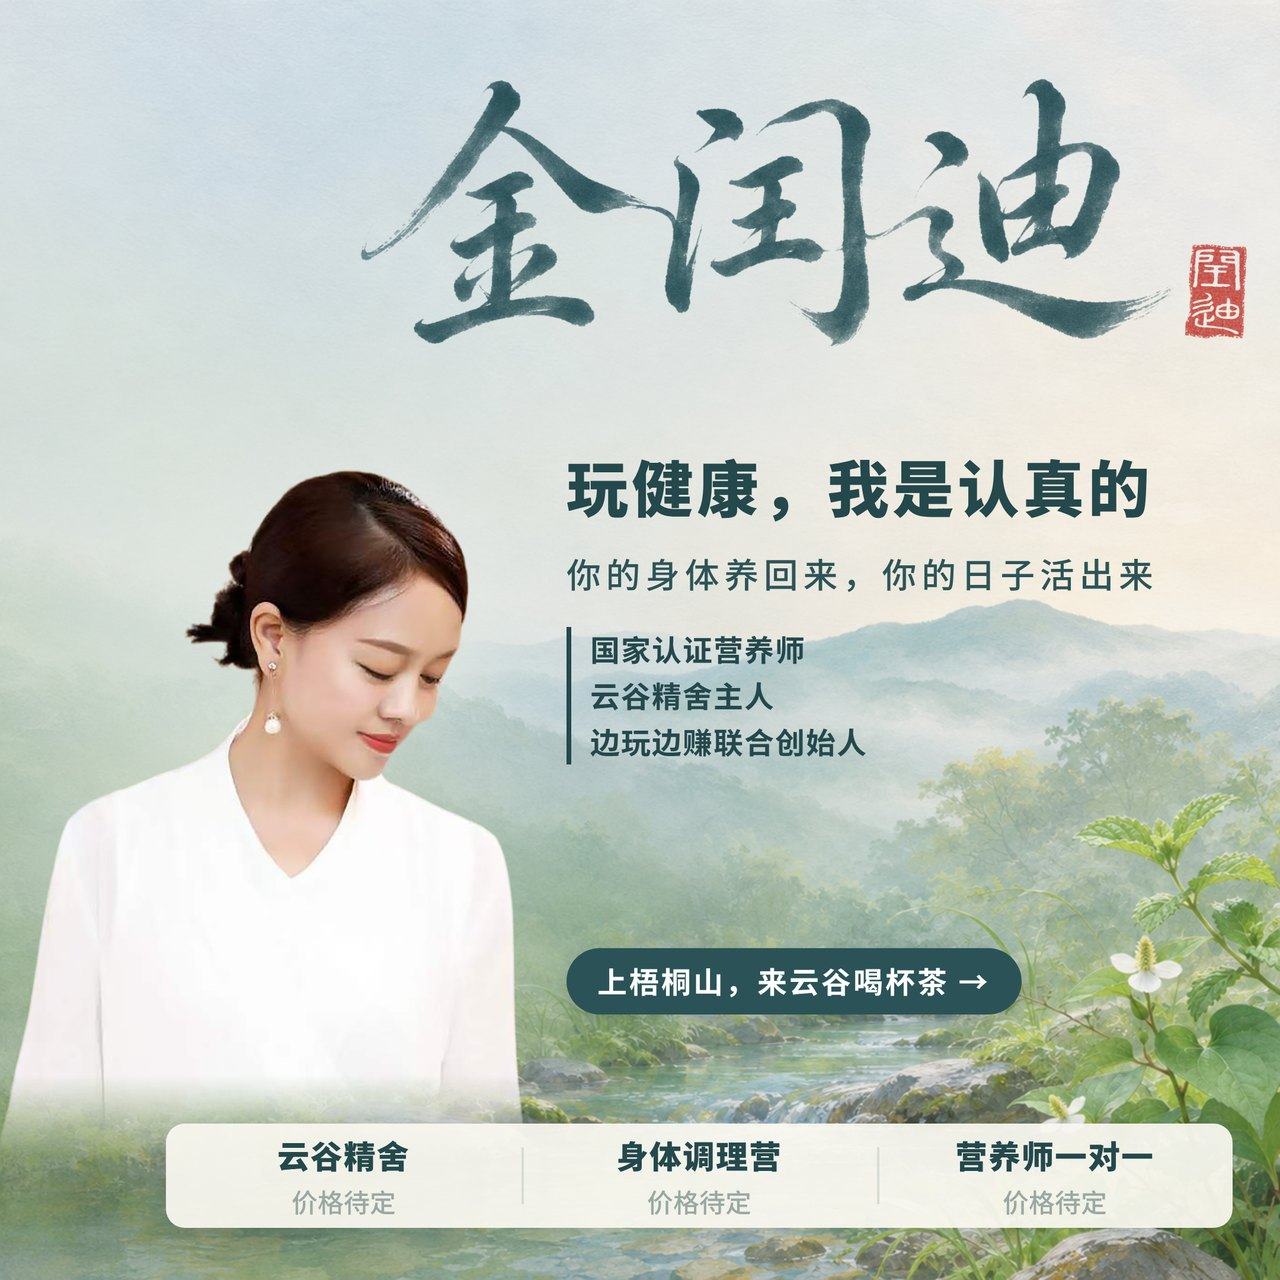
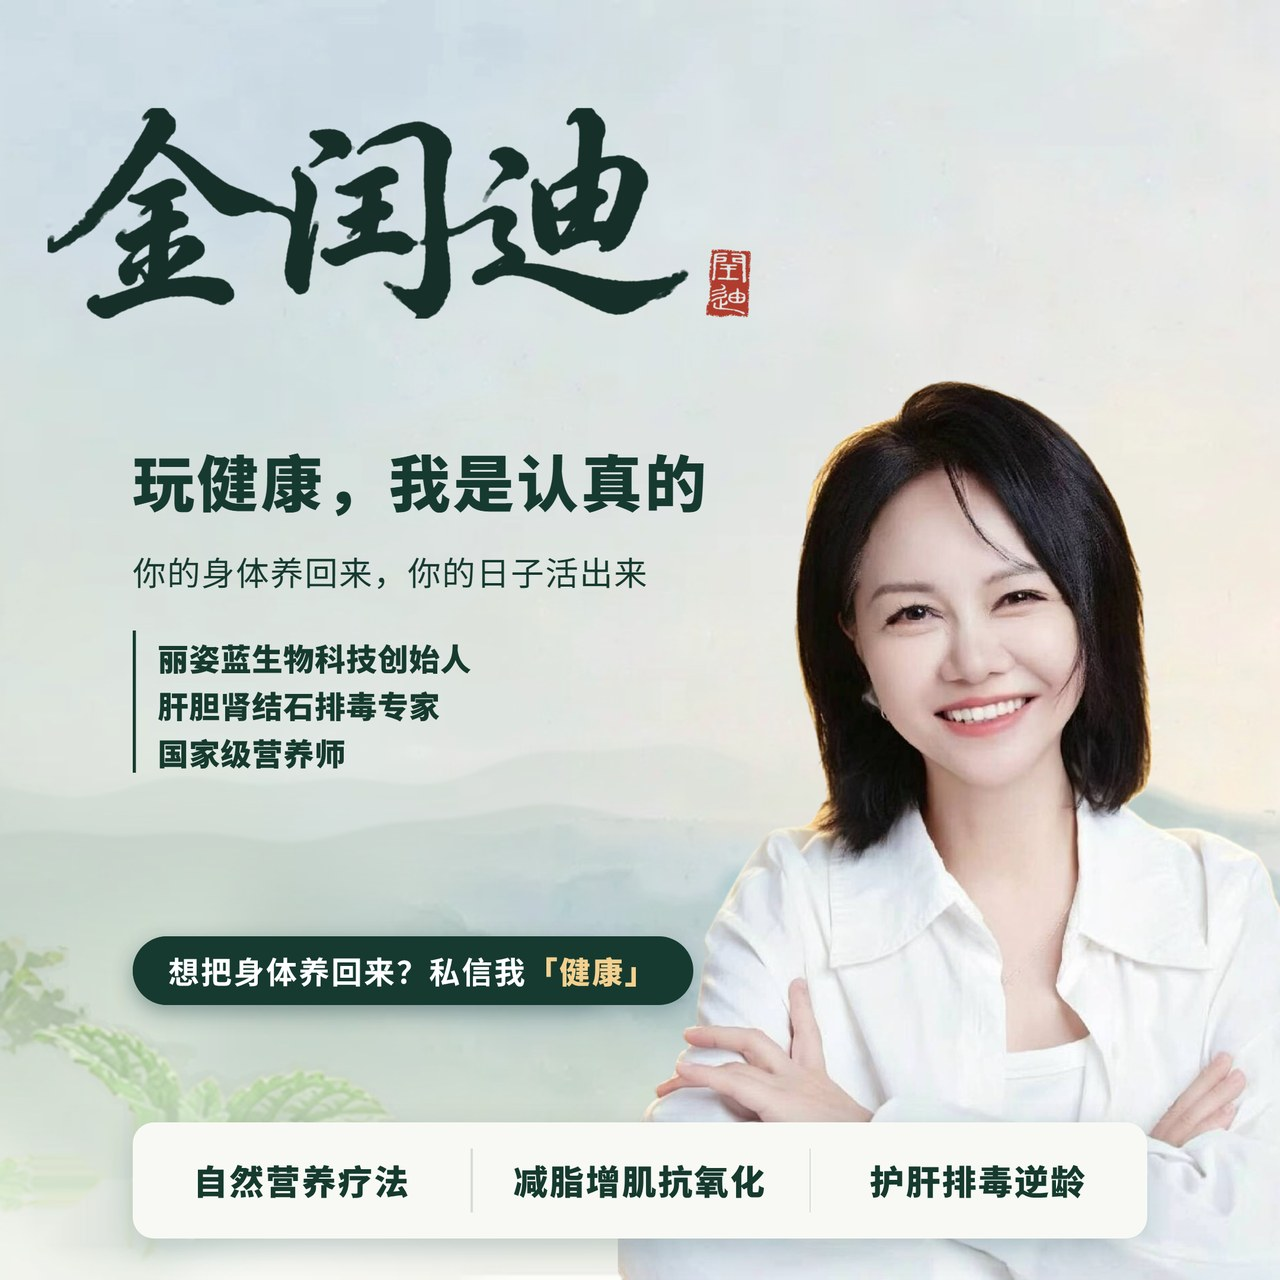
金闰迪主页：背景墙换成最终版（私信健康）；身份标签统一为 丽姿蓝生物科技创始人 / 肝胆肾结石排毒专家 / 国家级营养师
Claude-Session: https://claude.ai/code/session_01BfepyGUfMAxwSbrDZ1Uhup

diff --git a/v2/jinrundi/index.html b/v2/jinrundi/index.html
@@ -5,13 +5,13 @@
 <meta name="viewport" content="width=device-width,initial-scale=1,viewport-fit=cover">
 <meta name="robots" content="noindex, nofollow">
 <title>金闰迪 · 玩健康，我是认真的 | 边玩边赚</title>
-<meta name="description" content="金闰迪，国家认证营养师，深圳梧桐山云谷精舍主人，边玩边赚联合创始人。湖北房县山里长大，十七岁揣着20元出门，走了大半个中国。你的身体养回来，你的日子活出来。">
+<meta name="description" content="金闰迪，丽姿蓝生物科技创始人，肝胆肾结石排毒专家，国家级营养师。湖北房县山里长大，十七岁揣着20元出门，走了大半个中国，如今住在深圳梧桐山。你的身体养回来，你的日子活出来。">
 <meta property="og:title" content="金闰迪 · 这座山，是我自己挑的">
-<meta property="og:description" content="国家认证营养师 · 深圳梧桐山云谷精舍主人 · 边玩边赚联合创始人">
+<meta property="og:description" content="丽姿蓝生物科技创始人 · 肝胆肾结石排毒专家 · 国家级营养师">
 <meta property="og:image" content="https://www.playandprosper.com/v2/jinrundi/card.jpg?v=20261114">
 <meta name="theme-color" content="#E7ECE6">
 <link rel="icon" href="../img/logo-icon.png">
-<script type="application/ld+json">{"@context":"https://schema.org","@type":"Person","name":"金闰迪","alternateName":"Jin Rundi","jobTitle":"国家认证营养师","description":"湖北房县山里长大，十七岁揣着20元出门，走了大半个中国。国家认证营养师，深圳梧桐山云谷精舍主人，边玩边赚联合创始人。","homeLocation":{"@type":"Place","name":"深圳梧桐山"},"url":"https://www.playandprosper.com/jinrundi/","memberOf":{"@type":"Organization","name":"边玩边赚 Play and Prosper","url":"https://www.playandprosper.com/"}}</script>
+<script type="application/ld+json">{"@context":"https://schema.org","@type":"Person","name":"金闰迪","alternateName":"Jin Rundi","jobTitle":"国家级营养师","description":"湖北房县山里长大，十七岁揣着20元出门，走了大半个中国。丽姿蓝生物科技创始人，肝胆肾结石排毒专家，国家级营养师，住在深圳梧桐山。","homeLocation":{"@type":"Place","name":"深圳梧桐山"},"url":"https://www.playandprosper.com/jinrundi/","memberOf":{"@type":"Organization","name":"边玩边赚 Play and Prosper","url":"https://www.playandprosper.com/"}}</script>
 <style>
 :root{
   --mist:#E7ECE6;      /* 山雾 */
@@ -263,7 +263,7 @@ footer a{color:#DCE7E1;text-decoration:none}
     <img class="name" src="name-brush.png" alt="金闰迪">
     <p class="line">玩健康，我是认真的</p>
     <p class="sub">你的身体养回来，你的日子活出来</p>
-    <div class="who"><span>国家认证营养师</span><span>云谷精舍主人 · 深圳梧桐山</span><span>边玩边赚联合创始人</span></div>
+    <div class="who"><span>丽姿蓝生物科技创始人</span><span>肝胆肾结石排毒专家</span><span>国家级营养师</span></div>
     <div class="go"><a class="btn" href="#road">读我的故事</a><a class="btn ghost" href="#yungu">来云谷喝杯茶</a></div>
   </div>
 </section>
@@ -272,7 +272,7 @@ footer a{color:#DCE7E1;text-decoration:none}
   <div class="w">
     <div><b>5 本书</b><span>边玩边赚书系，每本都有她</span></div>
     <div><b>20 元</b><span>十七岁，揣着它走出大山</span></div>
-    <div><b>营养师</b><span>国家认证，做身体的事</span></div>
+    <div><b>营养师</b><span>国家级，做身体的事</span></div>
     <div><b>梧桐山</b><span>深圳，云谷精舍</span></div>
   </div>
 </section>
@@ -397,7 +397,7 @@ footer a{color:#DCE7E1;text-decoration:none}
     <div class="cards">
       
       <a href="poster.jpg" target="_blank"><img src="poster.jpg" alt="金闰迪的自我介绍海报" loading="lazy"><span><span class="tag"><b>④</b></span>自我介绍海报</span></a>
-      <a href="moments.jpg" target="_blank"><img src="moments.jpg" alt="金闰迪的朋友圈封面" loading="lazy"><span><span class="tag"><b>⑧</b></span>朋友圈封面</span></a>
+      <a href="moments.jpg?v=20261117" target="_blank"><img src="moments.jpg?v=20261117" alt="金闰迪的朋友圈封面" loading="lazy"><span><span class="tag"><b>⑧</b></span>朋友圈封面</span></a>
     </div>
     <button class="share" type="button" id="share">把这一页转给一位朋友</button>
   </div>
@@ -450,7 +450,7 @@ footer a{color:#DCE7E1;text-decoration:none}
   var toast=document.createElement('div');toast.className='toast';document.body.appendChild(toast);
   function say(s){toast.textContent=s;toast.classList.add('on');setTimeout(function(){toast.classList.remove('on')},2200)}
   document.getElementById('share').addEventListener('click',function(){
-    var u=location.href.split('#')[0], d={title:'金闰迪 · 这座山，是我自己挑的',text:'推荐你认识金闰迪：国家认证营养师，深圳梧桐山云谷精舍主人。',url:u};
+    var u=location.href.split('#')[0], d={title:'金闰迪 · 这座山，是我自己挑的',text:'推荐你认识金闰迪：丽姿蓝生物科技创始人，肝胆肾结石排毒专家，国家级营养师。',url:u};
     if(navigator.share){navigator.share(d).catch(function(){});return}
     if(navigator.clipboard){navigator.clipboard.writeText(d.text+' '+u).then(function(){say('链接已复制，去微信粘贴给朋友')},function(){say('长按地址栏复制链接')})}
     else say('点右上角「…」，转发给朋友');
